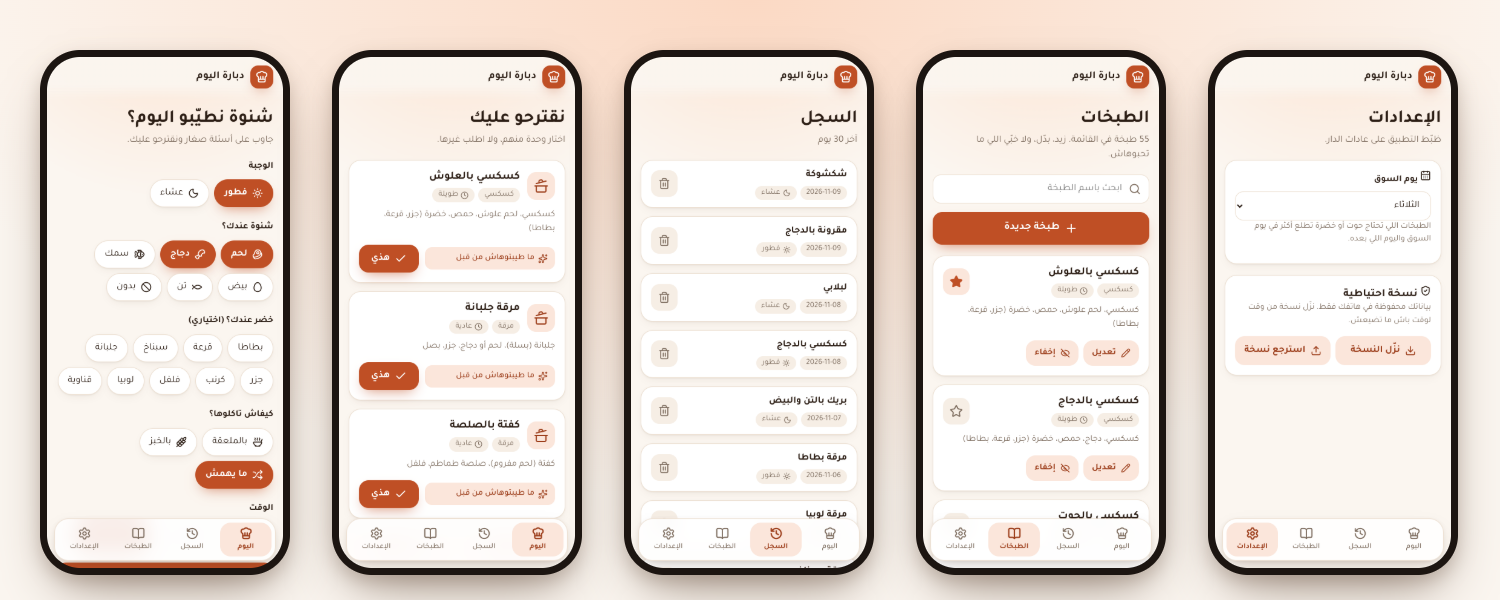
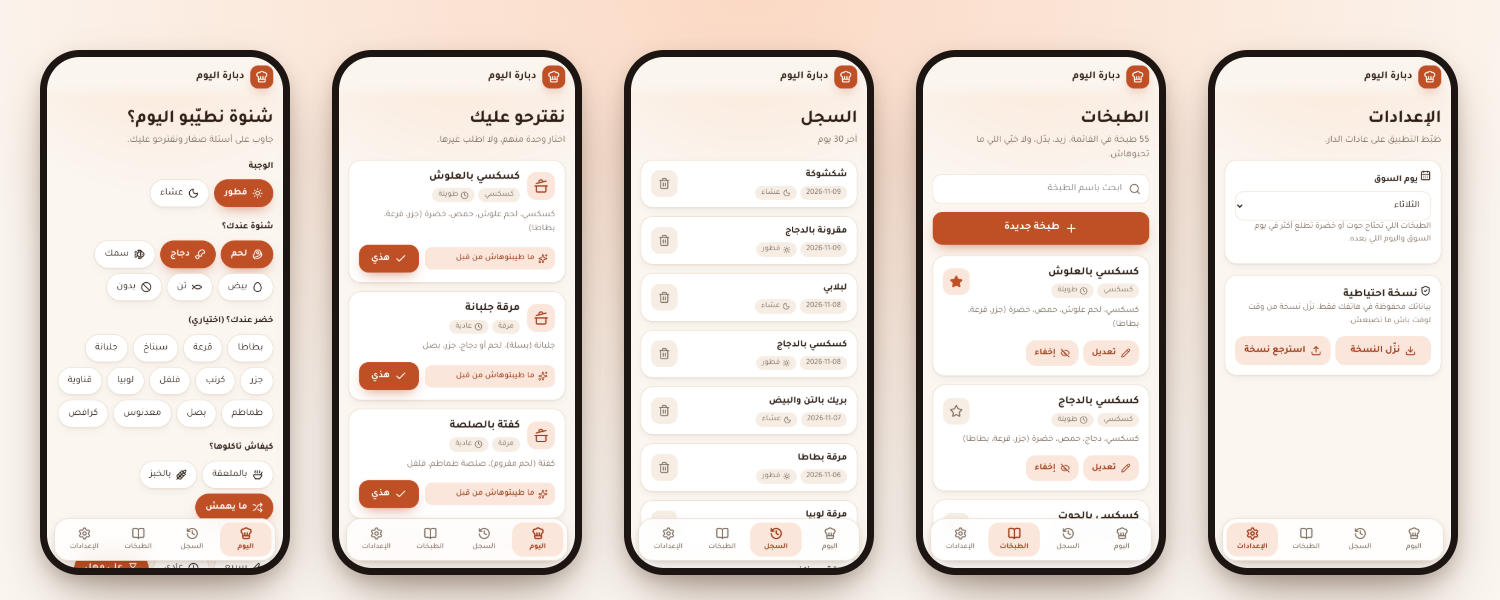
Four more vegetables: tomato, onion, parsley, celery
- added to the list, the Arabic labels, the table legend and the generator
- dishes whose components mention tomato, onion or parsley got them in the vegetables column
  (31, 6 and 4 dishes); no dish uses celery yet

Changed region(s): [[0.092, 0.66, 0.184, 0.87], [0.0307, 0.93, 0.184, 0.96]]

diff --git a/src/domain/types.ts b/src/domain/types.ts
@@ -5,7 +5,7 @@ export const PROTEINS = ['meat', 'chicken', 'fish', 'egg', 'tuna'] as const;
 export const EAT_WITH = ['spoon', 'bread'] as const;
 export const DURATIONS = ['quick', 'normal', 'long'] as const;
 export const SEASONS = ['all', 'winter', 'summer'] as const;
-export const VEGETABLES = ['potato', 'squash', 'spinach', 'peas', 'carrot', 'cabbage', 'pepper', 'beans', 'okra'] as const
+export const VEGETABLES = ['potato', 'squash', 'spinach', 'peas', 'carrot', 'cabbage', 'pepper', 'beans', 'okra', 'tomato', 'onion', 'parsley', 'celery'] as const
 export const FREQUENCIES = ['often', 'normal', 'rare'] as const; // how often the family cooks it
 
 export type Meal = (typeof MEALS)[number]

diff --git a/src/i18n/ar.ts b/src/i18n/ar.ts
@@ -15,6 +15,10 @@ export const vegetables: Record<Vegetable, string> = {
   pepper: 'فلفل',
   beans: 'لوبيا',
   okra: 'قناوية',
+  tomato: 'طماطم',
+  onion: 'بصل',
+  parsley: 'معدنوس',
+  celery: 'كرافص',
 }
 const eatWith: Record<EatWith | 'any', string> = { spoon: 'بالملعقة', bread: 'بالخبز', any: 'ما يهمش' }
 const durationsAsk: Record<Duration, string> = { quick: 'سريع', normal: 'عادي', long: 'على مهل' }

diff --git a/docs/dishes.md b/docs/dishes.md
@@ -2,7 +2,7 @@
 
 قائمة أولية من المطبخ التونسي اليومي. التصنيفات (الوجبة، طريقة الأكل، المدة، الفصل) تقديرية: عدّلوا الخلايا مباشرة، احذفوا ما لا تطبخونه، وأضيفوا طبخات الدار.
 
-القيم المسموحة: الوجبة (فطور، عشاء، الاثنان) · البروتين (لحم، دجاج، سمك، بيض، تن، بدون؛ «أو» تعني أن واحدا يكفي، «مع» تعني أن الاثنين لازمين) · الأكل (ملعقة، خبز) · المدة (سريع، عادي، طويل) · الفصل (الكل، شتاء، صيف؛ هو أولوية فقط وليس منعا) · طازج (نعم إذا كانت الطبخة تحتاج حوتا أو خضرة من السوق) · دسمة (نعم إذا كانت ثقيلة وما تنفعش للعشاء) · تكرار (برشا = نطيّبوها برشا ونقترحوها أولا، عادي، قليل = من وقت لوقت مثل الشربة والجارية) · خضر (الخضر الأساسية في الطبخة، من القائمة: بطاطا، قرعة، سبناخ، جلبانة، جزر، كرنب، فلفل، لوبيا، قناوية؛ اختياري ويُستعمل عندما تقولون ما عندكم من خضر) · المكونات (نص قصير يظهر على بطاقة الطبخة) · يوم مفضل (اختياري: اسم اليوم الذي تحبون فيه هذه الطبخة، مثل الجمعة؛ يمكن كتابة أكثر من يوم مفصولة بفاصلة) · id (معرّف بالإنجليزية، لا يتغير).
+القيم المسموحة: الوجبة (فطور، عشاء، الاثنان) · البروتين (لحم، دجاج، سمك، بيض، تن، بدون؛ «أو» تعني أن واحدا يكفي، «مع» تعني أن الاثنين لازمين) · الأكل (ملعقة، خبز) · المدة (سريع، عادي، طويل) · الفصل (الكل، شتاء، صيف؛ هو أولوية فقط وليس منعا) · طازج (نعم إذا كانت الطبخة تحتاج حوتا أو خضرة من السوق) · دسمة (نعم إذا كانت ثقيلة وما تنفعش للعشاء) · تكرار (برشا = نطيّبوها برشا ونقترحوها أولا، عادي، قليل = من وقت لوقت مثل الشربة والجارية) · خضر (الخضر الأساسية في الطبخة، من القائمة: بطاطا، قرعة، سبناخ، جلبانة، جزر، كرنب، فلفل، لوبيا، قناوية، طماطم، بصل، معدنوس، كرافص؛ اختياري ويُستعمل عندما تقولون ما عندكم من خضر) · المكونات (نص قصير يظهر على بطاقة الطبخة) · يوم مفضل (اختياري: اسم اليوم الذي تحبون فيه هذه الطبخة، مثل الجمعة؛ يمكن كتابة أكثر من يوم مفصولة بفاصلة) · id (معرّف بالإنجليزية، لا يتغير).
 
 بعد تعديل الجدول شغّل `npm run dishes` لتحديث `src/data/dishes.json`.
 
@@ -11,55 +11,55 @@
 | كسكسي بالعلوش | فطور | لحم | ملعقة | كسكسي | طويل | الكل | لا | نعم | برشا | جزر، قرعة، بطاطا | كسكسي، لحم علوش، حمص، خضرة (جزر، قرعة، بطاطا) | الجمعة | couscous-allouch |
 | كسكسي بالدجاج | فطور | دجاج | ملعقة | كسكسي | طويل | الكل | لا | نعم | برشا | جزر، قرعة، بطاطا | كسكسي، دجاج، حمص، خضرة (جزر، قرعة، بطاطا) | الجمعة | couscous-chicken |
 | كسكسي بالحوت | فطور | سمك | ملعقة | كسكسي | طويل | الكل | نعم | نعم | عادي | جزر، قرعة، بطاطا | كسكسي، حوت، خضرة، صلصة حارة | الجمعة | couscous-fish |
-| مقرونة بالصلصة واللحم | الاثنان | لحم | ملعقة | مقرونة | عادي | الكل | لا | لا | برشا |  | مقرونة، صلصة طماطم، لحم |  | makrouna-sauce-meat |
-| مقرونة بالدجاج | الاثنان | دجاج | ملعقة | مقرونة | عادي | الكل | لا | لا | برشا |  | مقرونة، صلصة طماطم، دجاج |  | makrouna-chicken |
-| مقرونة بالتن | الاثنان | تن | ملعقة | مقرونة | سريع | الكل | لا | لا | برشا |  | مقرونة، تن، صلصة طماطم |  | makrouna-tuna |
-| مقرونة بغلال البحر | الاثنان | سمك | ملعقة | مقرونة | عادي | الكل | نعم | لا | عادي |  | مقرونة، غلال البحر، صلصة طماطم |  | makrouna-seafood |
+| مقرونة بالصلصة واللحم | الاثنان | لحم | ملعقة | مقرونة | عادي | الكل | لا | لا | برشا | طماطم | مقرونة، صلصة طماطم، لحم |  | makrouna-sauce-meat |
+| مقرونة بالدجاج | الاثنان | دجاج | ملعقة | مقرونة | عادي | الكل | لا | لا | برشا | طماطم | مقرونة، صلصة طماطم، دجاج |  | makrouna-chicken |
+| مقرونة بالتن | الاثنان | تن | ملعقة | مقرونة | سريع | الكل | لا | لا | برشا | طماطم | مقرونة، تن، صلصة طماطم |  | makrouna-tuna |
+| مقرونة بغلال البحر | الاثنان | سمك | ملعقة | مقرونة | عادي | الكل | نعم | لا | عادي | طماطم | مقرونة، غلال البحر، صلصة طماطم |  | makrouna-seafood |
 | مقرونة في الكوشة | الاثنان | لحم أو دجاج | ملعقة | مقرونة | عادي | الكل | لا | نعم | عادي |  | مقرونة، لحم أو دجاج، صلصة، جبن، مطيّبة في الفرن |  | makrouna-koucha |
-| مقرونة جارية | الاثنان | لحم أو دجاج | ملعقة | مقرونة | عادي | شتاء | لا | لا | قليل |  | مقرونة في مرق خفيف، طماطم، لحم أو دجاج |  | makrouna-jariya |
-| نواصر بالدجاج | فطور | دجاج | ملعقة | عجين | طويل | الكل | لا | نعم | برشا |  | نواصر (عجين تقليدي)، دجاج، حمص، صلصة طماطم |  | nwasser-chicken |
-| دويدة بالدجاج | الاثنان | دجاج | ملعقة | عجين | عادي | الكل | لا | لا | قليل |  | دويدة (عجين صغير)، دجاج، مرق بالطماطم |  | doweida-chicken |
+| مقرونة جارية | الاثنان | لحم أو دجاج | ملعقة | مقرونة | عادي | شتاء | لا | لا | قليل | طماطم | مقرونة في مرق خفيف، طماطم، لحم أو دجاج |  | makrouna-jariya |
+| نواصر بالدجاج | فطور | دجاج | ملعقة | عجين | طويل | الكل | لا | نعم | برشا | طماطم | نواصر (عجين تقليدي)، دجاج، حمص، صلصة طماطم |  | nwasser-chicken |
+| دويدة بالدجاج | الاثنان | دجاج | ملعقة | عجين | عادي | الكل | لا | لا | قليل | طماطم | دويدة (عجين صغير)، دجاج، مرق بالطماطم |  | doweida-chicken |
 | حلالم | الاثنان | لحم | ملعقة | شربة | طويل | شتاء | لا | نعم | قليل |  | حلالم (عجين رقيق)، لحم، حمص، مرق |  | hlalem |
-| محمص | الاثنان | لحم أو بدون | ملعقة | محمص وبرغل | عادي | شتاء | لا | لا | قليل | فلفل | محمص (سميد محمّص)، طماطم، فلفل، لحم اختياري |  | mhamsa |
-| برغل بالعلوش | فطور | لحم | ملعقة | محمص وبرغل | طويل | شتاء | لا | نعم | قليل |  | برغل، لحم علوش، حمص، طماطم |  | borghol-allouch |
-| روز جربي | فطور | لحم أو دجاج | ملعقة | روز | طويل | الكل | لا | نعم | برشا |  | أرز، طماطم، لحم أو دجاج، حمص، توابل |  | rouz-jerbi |
-| روز بالدجاج | الاثنان | دجاج | ملعقة | روز | عادي | الكل | لا | لا | برشا |  | أرز، دجاج، طماطم، خضرة |  | rouz-chicken |
-| شربة فريك باللحم | الاثنان | لحم | ملعقة | شربة | عادي | شتاء | لا | لا | قليل |  | فريك (قمح أخضر مدشّش)، لحم، طماطم، حمص |  | chorba-frik-meat |
-| شربة لسان عصفور بالدجاج | عشاء | دجاج | ملعقة | شربة | عادي | الكل | لا | لا | قليل |  | لسان عصفور (عجين صغير)، دجاج، طماطم، نعناع |  | chorba-lsan-asfour-chicken |
-| شربة حوت | الاثنان | سمك | ملعقة | شربة | عادي | الكل | نعم | لا | قليل |  | حوت، طماطم، عجين صغير، توابل |  | chorba-fish |
-| شربة خضرة | عشاء | بدون | ملعقة | شربة | عادي | شتاء | نعم | لا | قليل | جزر، بطاطا، كرنب | خضرة مشكلة (جزر، بطاطا، كرنب)، طماطم |  | chorba-vegetables |
+| محمص | الاثنان | لحم أو بدون | ملعقة | محمص وبرغل | عادي | شتاء | لا | لا | قليل | فلفل، طماطم | محمص (سميد محمّص)، طماطم، فلفل، لحم اختياري |  | mhamsa |
+| برغل بالعلوش | فطور | لحم | ملعقة | محمص وبرغل | طويل | شتاء | لا | نعم | قليل | طماطم | برغل، لحم علوش، حمص، طماطم |  | borghol-allouch |
+| روز جربي | فطور | لحم أو دجاج | ملعقة | روز | طويل | الكل | لا | نعم | برشا | طماطم | أرز، طماطم، لحم أو دجاج، حمص، توابل |  | rouz-jerbi |
+| روز بالدجاج | الاثنان | دجاج | ملعقة | روز | عادي | الكل | لا | لا | برشا | طماطم | أرز، دجاج، طماطم، خضرة |  | rouz-chicken |
+| شربة فريك باللحم | الاثنان | لحم | ملعقة | شربة | عادي | شتاء | لا | لا | قليل | طماطم | فريك (قمح أخضر مدشّش)، لحم، طماطم، حمص |  | chorba-frik-meat |
+| شربة لسان عصفور بالدجاج | عشاء | دجاج | ملعقة | شربة | عادي | الكل | لا | لا | قليل | طماطم | لسان عصفور (عجين صغير)، دجاج، طماطم، نعناع |  | chorba-lsan-asfour-chicken |
+| شربة حوت | الاثنان | سمك | ملعقة | شربة | عادي | الكل | نعم | لا | قليل | طماطم | حوت، طماطم، عجين صغير، توابل |  | chorba-fish |
+| شربة خضرة | عشاء | بدون | ملعقة | شربة | عادي | شتاء | نعم | لا | قليل | جزر، بطاطا، كرنب، طماطم | خضرة مشكلة (جزر، بطاطا، كرنب)، طماطم |  | chorba-vegetables |
 | لبلابي | الاثنان | بيض أو تن أو بدون | ملعقة | بقول | عادي | شتاء | لا | لا | قليل |  | حمص، خبز يابس، هريسة، كمون، ثوم، زيت زيتون، بيض أو تن اختياري |  | lablabi |
-| شربة عدس | الاثنان | بدون | ملعقة | شربة | عادي | شتاء | لا | لا | قليل | جزر | عدس، جزر، بصل، كمون، طماطم |  | chorba-adas |
-| مرقة عدس | الاثنان | بدون | خبز | مرقة | عادي | شتاء | لا | لا | عادي |  | عدس، طماطم، ثوم، كمون، لحم اختياري |  | marqa-adas |
+| شربة عدس | الاثنان | بدون | ملعقة | شربة | عادي | شتاء | لا | لا | قليل | جزر، طماطم، بصل | عدس، جزر، بصل، كمون، طماطم |  | chorba-adas |
+| مرقة عدس | الاثنان | بدون | خبز | مرقة | عادي | شتاء | لا | لا | عادي | طماطم | عدس، طماطم، ثوم، كمون، لحم اختياري |  | marqa-adas |
 | ملوخية | فطور | لحم | خبز | مرقة | طويل | الكل | لا | نعم | عادي |  | ملوخية، لحم، ثوم، زيت |  | molokhia |
 | كمونية | فطور | لحم | خبز | مرقة | عادي | الكل | لا | نعم | عادي |  | لحم أو كبدة، كمون، ثوم، زيت زيتون |  | kammounia |
-| مرقة جلبانة | فطور | لحم أو دجاج | خبز | مرقة | عادي | الكل | لا | نعم | برشا | جلبانة، جزر | جلبانة (بسلة)، لحم أو دجاج، جزر، بصل |  | marqa-jelbana |
-| مرقة بطاطا | فطور | لحم أو دجاج | خبز | مرقة | عادي | الكل | لا | نعم | برشا | بطاطا، فلفل | بطاطا، لحم أو دجاج، طماطم، فلفل |  | marqa-batata |
-| مرقة لوبيا | فطور | لحم | خبز | مرقة | طويل | شتاء | لا | نعم | عادي | لوبيا | لوبيا، لحم، طماطم، ثوم |  | marqa-loubia |
-| مرقة قناوية | فطور | لحم | خبز | مرقة | طويل | صيف | نعم | نعم | عادي | قناوية | قناوية (بامية)، لحم، طماطم |  | marqa-qnaouia |
+| مرقة جلبانة | فطور | لحم أو دجاج | خبز | مرقة | عادي | الكل | لا | نعم | برشا | جلبانة، جزر، بصل | جلبانة (بسلة)، لحم أو دجاج، جزر، بصل |  | marqa-jelbana |
+| مرقة بطاطا | فطور | لحم أو دجاج | خبز | مرقة | عادي | الكل | لا | نعم | برشا | بطاطا، فلفل، طماطم | بطاطا، لحم أو دجاج، طماطم، فلفل |  | marqa-batata |
+| مرقة لوبيا | فطور | لحم | خبز | مرقة | طويل | شتاء | لا | نعم | عادي | لوبيا، طماطم | لوبيا، لحم، طماطم، ثوم |  | marqa-loubia |
+| مرقة قناوية | فطور | لحم | خبز | مرقة | طويل | صيف | نعم | نعم | عادي | قناوية، طماطم | قناوية (بامية)، لحم، طماطم |  | marqa-qnaouia |
 | مرقة زيتون | فطور | لحم أو دجاج | خبز | مرقة | عادي | الكل | لا | نعم | عادي |  | زيتون أخضر، لحم أو دجاج، ليمون، ثوم |  | marqa-zitoun |
 | مرقة سبناخ | فطور | لحم | خبز | مرقة | عادي | شتاء | نعم | نعم | عادي | سبناخ | سبناخ، لحم، حمص، ثوم |  | marqa-sbanekh |
-| مرمز | فطور | لحم | خبز | مرقة | عادي | الكل | لا | نعم | عادي |  | لحم، حمص، طماطم، هريسة، توابل |  | mermez |
-| كفتة بالصلصة | الاثنان | لحم | خبز | مرقة | عادي | الكل | لا | لا | برشا | فلفل | كفتة (لحم مفروم)، صلصة طماطم، فلفل |  | kefta-sauce |
-| كبكابو | فطور | سمك | خبز | مرقة | عادي | الكل | نعم | لا | عادي |  | حوت، طماطم، زيتون، ليمون مخلل، توابل |  | kabkabou |
-| قلاية | الاثنان | لحم | خبز | مرقة | سريع | الكل | لا | نعم | عادي | فلفل | لحم، بصل، فلفل، طماطم |  | gallaya |
-| فلفل وبطاطا محشية | فطور | لحم | خبز | محشي | طويل | الكل | نعم | نعم | عادي | فلفل، بطاطا | فلفل وبطاطا، لحم مفروم، أرز، معدنوس |  | stuffed-pepper-potato |
-| مصلي علوش أو دجاج | فطور | لحم أو دجاج | خبز | كوشة | طويل | الكل | لا | نعم | عادي |  | لحم علوش أو دجاج، بصل، توابل، مطيّب في الفرن |  | mselli |
+| مرمز | فطور | لحم | خبز | مرقة | عادي | الكل | لا | نعم | عادي | طماطم | لحم، حمص، طماطم، هريسة، توابل |  | mermez |
+| كفتة بالصلصة | الاثنان | لحم | خبز | مرقة | عادي | الكل | لا | لا | برشا | فلفل، طماطم | كفتة (لحم مفروم)، صلصة طماطم، فلفل |  | kefta-sauce |
+| كبكابو | فطور | سمك | خبز | مرقة | عادي | الكل | نعم | لا | عادي | طماطم | حوت، طماطم، زيتون، ليمون مخلل، توابل |  | kabkabou |
+| قلاية | الاثنان | لحم | خبز | مرقة | سريع | الكل | لا | نعم | عادي | فلفل، طماطم، بصل | لحم، بصل، فلفل، طماطم |  | gallaya |
+| فلفل وبطاطا محشية | فطور | لحم | خبز | محشي | طويل | الكل | نعم | نعم | عادي | فلفل، بطاطا، معدنوس | فلفل وبطاطا، لحم مفروم، أرز، معدنوس |  | stuffed-pepper-potato |
+| مصلي علوش أو دجاج | فطور | لحم أو دجاج | خبز | كوشة | طويل | الكل | لا | نعم | عادي | بصل | لحم علوش أو دجاج، بصل، توابل، مطيّب في الفرن |  | mselli |
 | دجاج محمر في الكوشة | الاثنان | دجاج | خبز | كوشة | عادي | الكل | لا | نعم | عادي | بطاطا | دجاج، بطاطا، ثوم، توابل، فرن |  | chicken-roasted-koucha |
-| حوت في الكوشة | الاثنان | سمك | خبز | كوشة | عادي | الكل | نعم | لا | عادي | فلفل | حوت، طماطم، فلفل، ثوم، فرن |  | fish-koucha |
+| حوت في الكوشة | الاثنان | سمك | خبز | كوشة | عادي | الكل | نعم | لا | عادي | فلفل، طماطم | حوت، طماطم، فلفل، ثوم، فرن |  | fish-koucha |
 | حوت مشوي | الاثنان | سمك | خبز | مشوي | عادي | الكل | نعم | لا | عادي |  | حوت، ليمون، زيت زيتون، توابل |  | grilled-fish |
 | علوش مشوي | الاثنان | لحم | خبز | مشوي | عادي | الكل | لا | نعم | عادي |  | لحم علوش مشوي، ملح، توابل |  | grilled-lamb |
-| حوت مقلي بالتسطيرة | فطور | سمك | خبز | مقلي | عادي | الكل | نعم | لا | عادي | فلفل | حوت مقلي، تسطيرة (طماطم وفلفل)، ليمون |  | fried-fish-tastira |
-| كفتاجي | الاثنان | بيض | خبز | مقلي | عادي | صيف | نعم | لا | عادي | فلفل، بطاطا | خضرة مقلية (فلفل، طماطم، بطاطا)، بيض |  | koftaji |
-| طاجين معدنوس | الاثنان | بيض مع لحم أو دجاج | خبز | طاجين | عادي | الكل | لا | لا | عادي |  | بيض، معدنوس، لحم أو دجاج، جبن، فرن |  | tajine-parsley |
+| حوت مقلي بالتسطيرة | فطور | سمك | خبز | مقلي | عادي | الكل | نعم | لا | عادي | فلفل، طماطم | حوت مقلي، تسطيرة (طماطم وفلفل)، ليمون |  | fried-fish-tastira |
+| كفتاجي | الاثنان | بيض | خبز | مقلي | عادي | صيف | نعم | لا | عادي | فلفل، بطاطا، طماطم | خضرة مقلية (فلفل، طماطم، بطاطا)، بيض |  | koftaji |
+| طاجين معدنوس | الاثنان | بيض مع لحم أو دجاج | خبز | طاجين | عادي | الكل | لا | لا | عادي | معدنوس | بيض، معدنوس، لحم أو دجاج، جبن، فرن |  | tajine-parsley |
 | طاجين سبناخ | الاثنان | بيض مع لحم أو دجاج | خبز | طاجين | عادي | شتاء | نعم | لا | عادي | سبناخ | بيض، سبناخ، لحم أو دجاج، جبن، فرن |  | tajine-spinach |
-| شكشوكة | الاثنان | بيض | خبز | عجة وشكشوكة | سريع | الكل | لا | لا | برشا | فلفل | بيض، طماطم، فلفل، بصل، هريسة |  | chakchouka |
-| عجة بالمرقاز | الاثنان | بيض | خبز | عجة وشكشوكة | سريع | الكل | لا | لا | عادي |  | بيض، مرقاز (نقانق حارة)، معدنوس |  | omelette-merguez |
-| عجة بطاطا | عشاء | بيض | خبز | عجة وشكشوكة | سريع | الكل | لا | لا | برشا | بطاطا | بيض، بطاطا، بصل |  | omelette-potato |
-| تسطيرة بالبيض | عشاء | بيض | خبز | عجة وشكشوكة | سريع | صيف | نعم | لا | عادي | فلفل | طماطم، فلفل، بيض، ثوم |  | tastira-eggs |
-| بريك بالتن والبيض | عشاء | تن أو بيض | خبز | مقلي | سريع | الكل | لا | لا | عادي |  | ورقة بريك، تن، بيض، معدنوس، كبار |  | brik-tuna-egg |
+| شكشوكة | الاثنان | بيض | خبز | عجة وشكشوكة | سريع | الكل | لا | لا | برشا | فلفل، طماطم، بصل | بيض، طماطم، فلفل، بصل، هريسة |  | chakchouka |
+| عجة بالمرقاز | الاثنان | بيض | خبز | عجة وشكشوكة | سريع | الكل | لا | لا | عادي | معدنوس | بيض، مرقاز (نقانق حارة)، معدنوس |  | omelette-merguez |
+| عجة بطاطا | عشاء | بيض | خبز | عجة وشكشوكة | سريع | الكل | لا | لا | برشا | بطاطا، بصل | بيض، بطاطا، بصل |  | omelette-potato |
+| تسطيرة بالبيض | عشاء | بيض | خبز | عجة وشكشوكة | سريع | صيف | نعم | لا | عادي | فلفل، طماطم | طماطم، فلفل، بيض، ثوم |  | tastira-eggs |
+| بريك بالتن والبيض | عشاء | تن أو بيض | خبز | مقلي | سريع | الكل | لا | لا | عادي | معدنوس | ورقة بريك، تن، بيض، معدنوس، كبار |  | brik-tuna-egg |
 | فريكاسي | عشاء | تن أو بيض | خبز | مقلي | طويل | الكل | لا | لا | عادي | بطاطا | عجين مقلي، تن، بيض، بطاطا، زيتون، هريسة |  | fricassee |
-| سلاطة مشوية بالتن والبيض | عشاء | تن أو بيض | خبز | سلاطة | عادي | صيف | نعم | لا | عادي | فلفل | فلفل وطماطم مشويين، تن، بيض |  | salade-mechouia-tuna-egg |
+| سلاطة مشوية بالتن والبيض | عشاء | تن أو بيض | خبز | سلاطة | عادي | صيف | نعم | لا | عادي | فلفل، طماطم | فلفل وطماطم مشويين، تن، بيض |  | salade-mechouia-tuna-egg |
 | ملاوي بالتن والجبن | عشاء | تن | خبز | عجين | سريع | الكل | لا | لا | عادي |  | ملاوي (عجين رقيق)، تن، جبن |  | mlawi-tuna-cheese |
-| بيتزا الدار | عشاء | تن | خبز | عجين | عادي | الكل | لا | لا | عادي |  | عجين، تن، جبن، طماطم، زيتون |  | pizza-dar |
+| بيتزا الدار | عشاء | تن | خبز | عجين | عادي | الكل | لا | لا | عادي | طماطم | عجين، تن، جبن، طماطم، زيتون |  | pizza-dar |
 | كسكروت تن | عشاء | تن | خبز | سلاطة | سريع | الكل | لا | لا | عادي |  | خبز، تن، هريسة، زيتون، بيض |  | kasskrout-tuna |

diff --git a/docs/PLAN.md b/docs/PLAN.md
@@ -79,7 +79,7 @@ interface Dish {
   duration: Duration;
   season: Season;
   fresh: boolean;             // تحتاج حوتا أو خضرة من السوق
-  vegetables?: ('potato'|'squash'|'spinach'|'peas'|'carrot'|'cabbage'|'pepper'|'beans'|'okra')[]; // الخضر الأساسية
+  vegetables?: ('potato'|'squash'|'spinach'|'peas'|'carrot'|'cabbage'|'pepper'|'beans'|'okra'|'tomato'|'onion'|'parsley'|'celery')[]; // الخضر الأساسية
   frequency?: 'often'|'normal'|'rare'; // كم مرة تطبخوها: برشا، عادي، من وقت لوقت
   heavy?: boolean;           // دسمة وثقيلة، ما تنفعش للعشاء
   description?: string;       // المكونات الأساسية، تظهر على البطاقة
